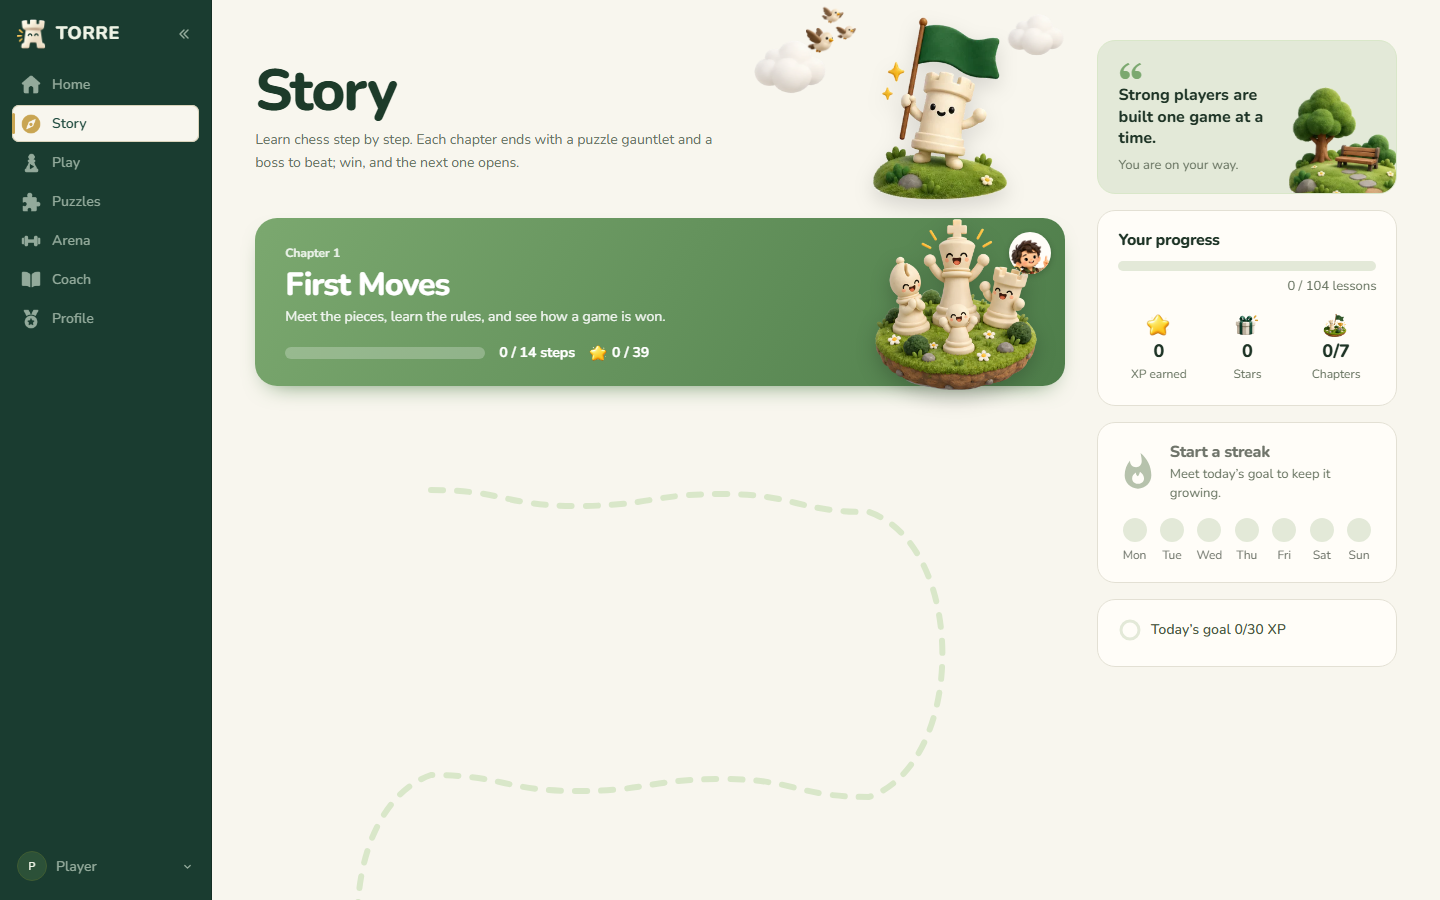
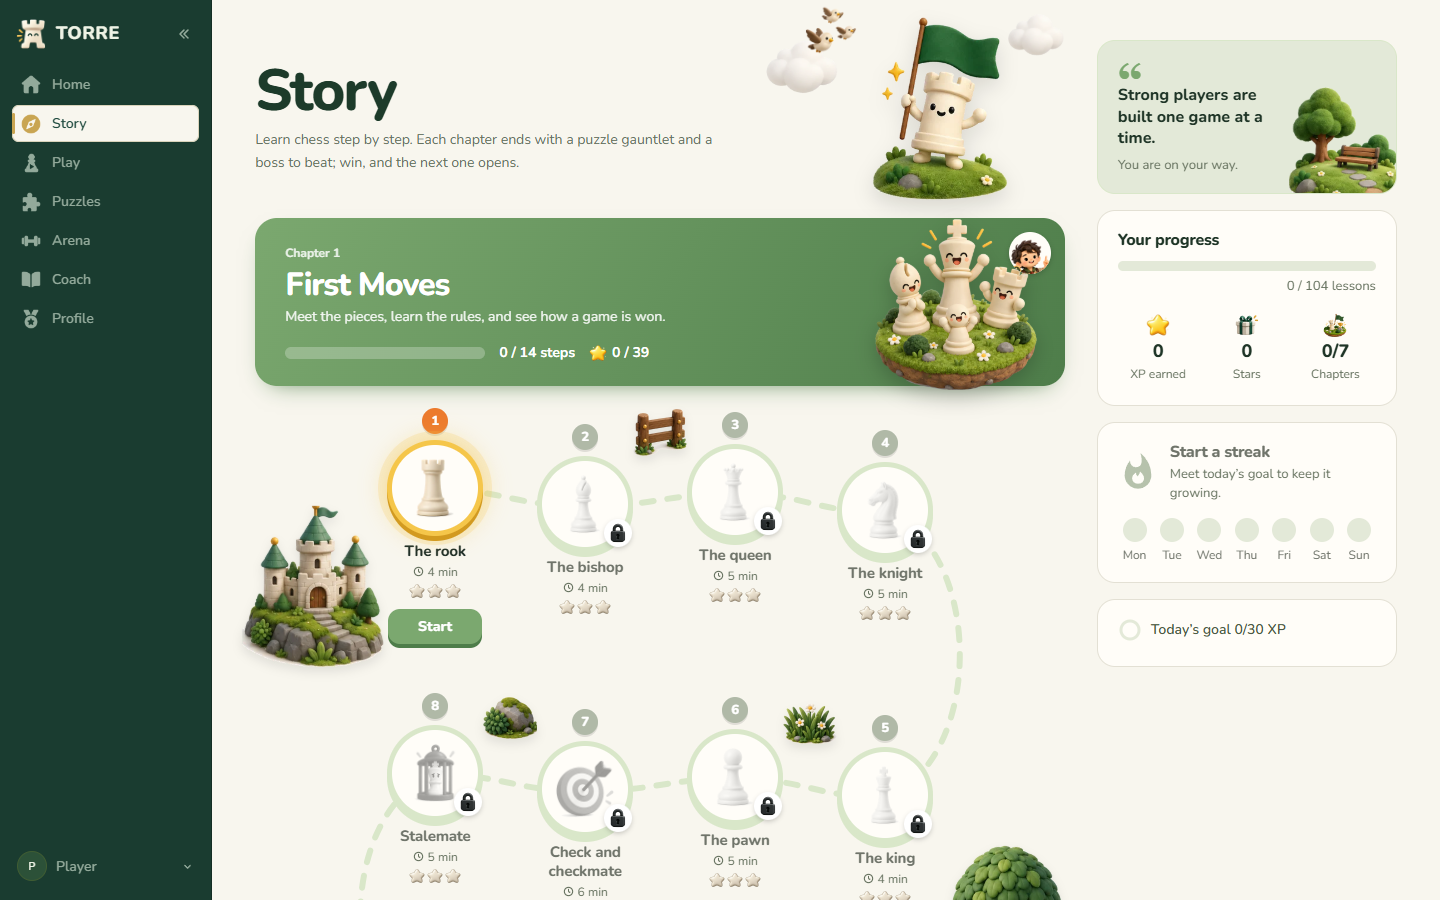
fix: capture loaded README screenshots

diff --git a/README.md b/README.md
@@ -23,14 +23,19 @@ app (in `web/`), served ready-built by the Python server.
 
 Captured from a fresh local installation with no personal game data.
 
-| Learn the game | Practice puzzles |
-| :---: | :---: |
-| ![Torre's Story screen, showing the first chapter and lesson progress](docs/screenshots/story.png) | ![Torre's Puzzles screen, showing the rating and checkmate themes](docs/screenshots/puzzles.png) |
-| Follow the Story chapters from your first moves onward. | Pick a rated puzzle or practice a theme. |
+**Story:** follow the chapters from your first moves onward.
+
+![Torre's Story screen, showing the first chapter and its lesson path](docs/screenshots/story.png)
+
+**Puzzles:** pick a rated puzzle or practice a theme.
+
+![Torre's Puzzles screen, showing the rating and checkmate themes](docs/screenshots/puzzles.png)
 
 ## Install
 
-The quickest way to play is at [torre.sh](https://torre.sh); that uses a hosted account.
+The quickest way to play is at [torre.sh](https://torre.sh). Visit the
+[install page](https://torre.sh/download) to add it as an app on iPhone, iPad,
+Mac, Android, Windows or Linux. That uses a hosted account and needs internet.
 To keep games on your own computer, install Docker Desktop (or Docker Engine) and run:
 
 ```bash
